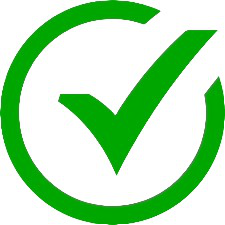
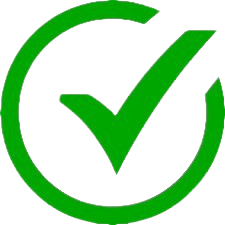
Weien V11 update

diff --git a/lib/Membership Module/Student/StudentEdit.dart b/lib/Membership Module/Student/StudentEdit.dart
@@ -129,7 +129,7 @@ class _StudentEditState extends State<StudentEdit> {
                               children: [
                                 buildInputField('Name', 'Please input your name...', StudentName),
                                 buildInputField('MatricNo.', 'Please input your MatricNo...', MatricNo),
-                                buildInputField('Email', 'Please input your email...', StudentEmail),
+                                buildInputField('Email (Fix)', 'Please input your email...', StudentEmail),
                               ],
                             ),
                           ),
@@ -248,7 +248,7 @@ class _StudentEditState extends State<StudentEdit> {
                         // Contact Us
                         Positioned(
                             left: 80,
-                            top: 675,
+                            top: 725,
                             child: InkWell(
                               onTap: () {
                                 launchEmail('usmfoodsaver@gmail.com');

diff --git a/lib/Booking & Engagement Module/GiveFeedback2.dart b/lib/Booking & Engagement Module/GiveFeedback2.dart
@@ -45,7 +45,7 @@ class Givefeedback2 extends StatelessWidget {
               top: 30,
               child: Container(
                 width: 371,
-                height: 300,
+                height: 350,
                 decoration: ShapeDecoration(
                   color: Color(0xFFF2E6C7),
                   shape: RoundedRectangleBorder(
@@ -107,8 +107,8 @@ class Givefeedback2 extends StatelessWidget {
                       top: 10, // Adjust top position as needed
                       child: Image.asset(
                         'lib/assets/images/tick.png',
-                        width: 80,
-                        height: 80,
+                        width: 160,
+                        height: 160,
                       ),
                     ),
                     SizedBox(height: 30), // Adjust spacing between title and content

diff --git a/lib/Membership Module/Student/Premium/tngScan.dart b/lib/Membership Module/Student/Premium/tngScan.dart
@@ -1,10 +1,13 @@
+import 'package:usmfoodsaver/Membership%20Module/Student/Premium/PaymentMethod.dart';
+import 'package:usmfoodsaver/Membership%20Module/Student/Premium/PremiumPrice.dart';
+
 import 'UploadSS.dart';
 import 'package:flutter/material.dart';
 
 class Tngscan extends StatelessWidget {
   void navigateNextPage(BuildContext ctx) {
     Navigator.of(ctx).push(MaterialPageRoute(builder: (_) {
-      return Tngscan();
+      return Paymentmethod();
     }));
   }
 
@@ -13,6 +16,7 @@ class Tngscan extends StatelessWidget {
       return UploadSS();
     }));
   }
+
 
   @override
   Widget build(BuildContext context) {

diff --git a/lib/main.dart b/lib/main.dart
@@ -1,5 +1,6 @@
 import 'package:flutter/material.dart';
 import 'package:firebase_core/firebase_core.dart';
+import 'package:usmfoodsaver/Booking%20&%20Engagement%20Module/GiveFeedback2.dart';
 import 'package:usmfoodsaver/Food%20Management%20Module/PostFood.dart';
 import 'package:usmfoodsaver/Membership%20Module/HomePage/HomePage.dart';
 import 'package:usmfoodsaver/Membership%20Module/Student/NormalProfile.dart';
@@ -28,7 +29,7 @@ class MyApp extends StatelessWidget {
       theme: ThemeData(
         primarySwatch: Colors.blue,
       ),
-          home: HomePage()
+          home: Givefeedback2()
     );
   }
 }

diff --git a/lib/Membership Module/Student/NormalProfile.dart b/lib/Membership Module/Student/NormalProfile.dart
@@ -504,7 +504,7 @@ class _NormalprofileState extends State<Normalprofile> {
                   padding: EdgeInsets.zero,
                 ),
                 child: Text(
-                  'Log out',
+                  'Log Out',
                   style: TextStyle(
                     color: Color(0xFFF21C1C),
                     fontSize: 16,
